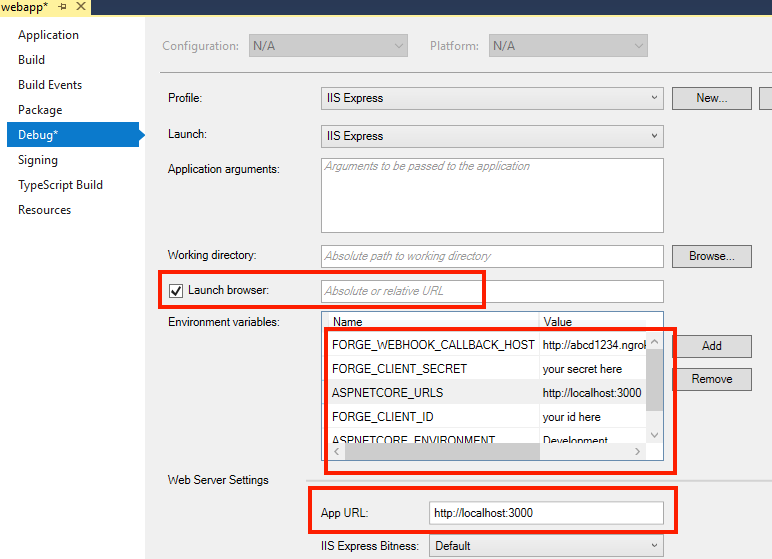
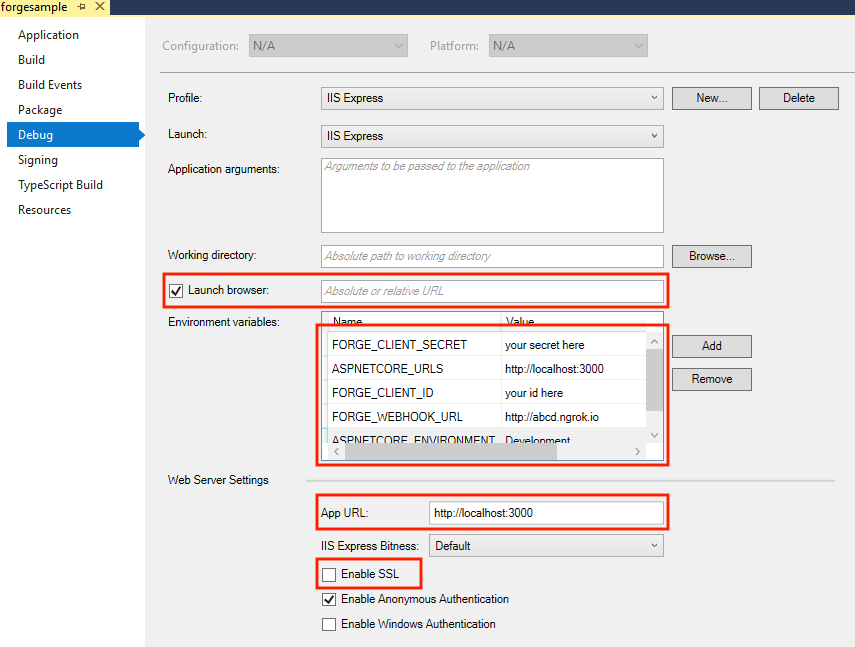
fixes
update readme
update FORGE_WEBHOOK_URL
update image

diff --git a/forgesample/wwwroot/index.html b/forgesample/wwwroot/index.html
@@ -7,8 +7,8 @@
     <link rel="shortcut icon" href="https://github.com/Autodesk-Forge/learn.forge.viewhubmodels/raw/master/img/favicon.ico">
     <!-- Common packages: jQuery, Bootstrap -->
     <script src="//cdnjs.cloudflare.com/ajax/libs/jquery/3.3.1/jquery.min.js"></script>
-    <script src="//cdnjs.cloudflare.com/ajax/libs/twitter-bootstrap/3.3.7/js/bootstrap.min.js"></script>
-    <link rel="stylesheet" href="//cdnjs.cloudflare.com/ajax/libs/twitter-bootstrap/3.3.7/css/bootstrap.min.css">
+    <script src="//cdnjs.cloudflare.com/ajax/libs/twitter-bootstrap/3.4.1/js/bootstrap.min.js"></script>
+    <link rel="stylesheet" href="//cdnjs.cloudflare.com/ajax/libs/twitter-bootstrap/3.4.1/css/bootstrap.min.css">
     <!-- .NET SignalR -->
     <script src="//unpkg.com/@aspnet/signalr@1.1.0/dist/browser/signalr.min.js"></script>
     <!-- Files for this project -->

diff --git a/forgesample/Controllers/DesignAutomationController.cs b/forgesample/Controllers/DesignAutomationController.cs
@@ -303,7 +303,7 @@ namespace forgeSample.Controllers
             };
 
             // prepare & submit workitem
-            string callbackUrl = string.Format("{0}/api/forge/callback/designautomation?id={1}&outputFileName={2}", OAuthController.GetAppSetting("FORGE_WEBHOOK_CALLBACK_HOST"), browerConnectionId, outputFileNameOSS);
+            string callbackUrl = string.Format("{0}/api/forge/callback/designautomation?id={1}&outputFileName={2}", OAuthController.GetAppSetting("FORGE_WEBHOOK_URL"), browerConnectionId, outputFileNameOSS);
             WorkItem workItemSpec = new WorkItem()
             {
                 ActivityId = activityName,

diff --git a/forgesample/README.md b/forgesample/README.md
@@ -39,15 +39,15 @@ Clone this project or download it. It's recommended to install [GitHub desktop](
 
 When a `Workitem` completes, **Design Automation** can notify our application. As the app is running locally (i.e. `localhost`), it's not reacheable from the internet. `ngrok` tool creates a temporary address that channels notifications to our `localhost` address.
 
-After [download ngrok](https://ngrok.com/), run `ngrok http 3000 -host-header="localhost:3000"`, then copy the `http` address into the `FORGE_WEBHOOK_CALLBACK_HOST` environment variable (see next). For this sample, do not use the `https` address.
+After [download ngrok](https://ngrok.com/), run `ngrok http 3000 -host-header="localhost:3000"`, then copy the `http` address into the `FORGE_WEBHOOK_URL` environment variable (see next). For this sample, do not use the `https` address.
 
-![](../media/webapp/ngrok_setup.png) 
+![](../media/webapp/ngrok_setup.png)
 
 **Visual Studio** (Windows):
 
 Right-click on the project, then go to **Debug**. Adjust the settings as shown below. 
 
-![](../media/webapp/visual_studio_settings.png) 
+![](../media/webapp/visual_studio_settings.png)
 
 **Visual Sutdio Code** (Windows, MacOS):
 
@@ -63,7 +63,7 @@ At the `.vscode\launch.json`, find the env vars and add your Forge Client ID, Se
     "ASPNETCORE_URLS" : "http://localhost:3000",
     "FORGE_CLIENT_ID": "your id here",
     "FORGE_CLIENT_SECRET": "your secret here",
-    "FORGE_WEBHOOK_CALLBACK_HOST": "http://1234.ngrok.io",
+    "FORGE_WEBHOOK_URL": "http://1234.ngrok.io",
 },
 ```
 
